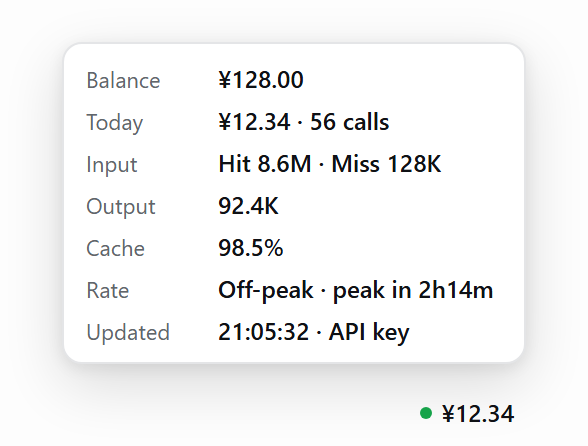
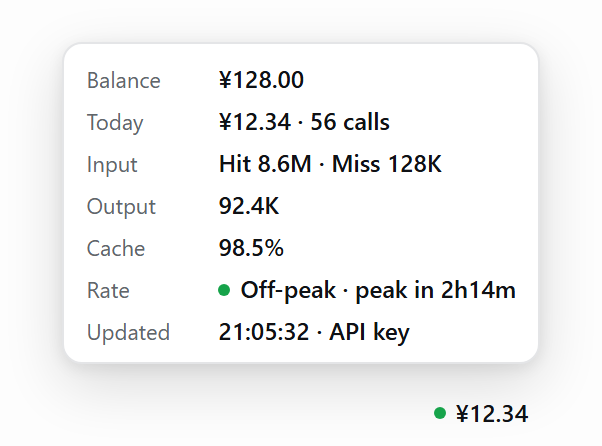
feat: repeat the peak/off-peak dot in the hover card's rate row
The rate row now carries the same 6px dot as the readout, aligned on the CJK ink centre (vertical-align: middle plus a -1px nudge measured against the rendered preview). Previews regenerated; version 0.3.1.

diff --git a/client.js b/client.js
@@ -342,6 +342,21 @@ window.__ModuleLoader__.load({
 				fontVariantNumeric: 'tabular-nums',
 				color: 'var(--dsw-alias-label-primary)',
 			},
+			// Inline marker for the card's rate row. `vertical-align: middle` puts
+			// its centre on the text's x-height centre, which reads better than a
+			// flex-centred box against a baseline-aligned row.
+			cardDot: {
+				display: 'inline-block',
+				width: '6px',
+				height: '6px',
+				marginRight: '5px',
+				borderRadius: '50%',
+				verticalAlign: 'middle',
+				// `vertical-align: middle` uses the x-height, which sits a hair low
+				// against CJK glyphs; nudge the dot back onto their ink centre.
+				position: 'relative',
+				top: '-1px',
+			},
 			cardNote: {
 				fontSize: '11px',
 				lineHeight: '1.4',
@@ -710,12 +725,11 @@ window.__ModuleLoader__.load({
 			const peak = isPeak(now);
 			const countdown = humanDuration(secondsToSwitch(now));
 			// Green while the off-peak discount applies, amber during peak hours.
-			// Decorative only: the readout's aria-label already names the window.
-			const rateDotStyle = Object.assign({}, CSS.rateDot, {
-				background: peak
-					? 'var(--dsw-alias-state-warn-primary, #d97706)'
-					: 'var(--dsw-alias-state-success-primary, #16a34a)',
-			});
+			const rateColor = peak
+				? 'var(--dsw-alias-state-warn-primary, #d97706)'
+				: 'var(--dsw-alias-state-success-primary, #16a34a)';
+			const rateDotStyle = Object.assign({}, CSS.rateDot, { background: rateColor });
+			const cardDotStyle = Object.assign({}, CSS.cardDot, { background: rateColor });
 			const currency = (snapshot && snapshot.currency) || 'CNY';
 			const balance = money(snapshot ? snapshot.balance : null, currency);
 			const today = snapshot && snapshot.today ? snapshot.today : null;
@@ -745,7 +759,9 @@ window.__ModuleLoader__.load({
 					cardRows.push({ label: T.output, value: outputTokens > 0 ? compactTokens(outputTokens) : '—' });
 					cardRows.push({ label: T.cache, value: cacheRateText(today.cacheHitRate, !officialSource) || '—' });
 				}
-				cardRows.push({ label: T.rate, value: T.rateValue(peak, countdown) });
+				// The rate row repeats the pill's dot so the colour and the wording
+				// name the same window instead of asking the reader to remember it.
+				cardRows.push({ label: T.rate, value: T.rateValue(peak, countdown), dot: true });
 				cardRows.push({
 					label: T.updated,
 					value: clockOf(snapshot.balanceAt, LOCALE_TAG) + ' · ' + sourceLabel(snapshot.balanceSource, T),
@@ -853,7 +869,14 @@ window.__ModuleLoader__.load({
 												},
 												row.label,
 											),
-											h('span', { style: CSS.cardValue }, row.value),
+											row.dot
+												? h(
+														'span',
+														{ style: CSS.cardValue },
+														h('span', { style: cardDotStyle, 'aria-hidden': 'true' }),
+														row.value,
+													)
+												: h('span', { style: CSS.cardValue }, row.value),
 										),
 									)
 								: h('span', { style: CSS.cardNote }, T.loading),

diff --git a/tools/preview/preview.html b/tools/preview/preview.html
@@ -41,7 +41,8 @@
   }
   .pill { display: inline-flex; align-items: baseline; gap: 5px; padding: 2px 6px; border-radius: 7px; line-height: 16px; }
   .pill .val { font-size: 12px; font-weight: 500; font-variant-numeric: tabular-nums; color: #0f1115; }
-  .pill .rate { flex: 0 0 auto; align-self: center; width: 6px; height: 6px; margin-top: 1px; border-radius: 50%; background: #16a34a; }
+  .rate { flex: 0 0 auto; align-self: center; width: 6px; height: 6px; margin-top: 1px; border-radius: 50%; background: #16a34a; }
+  .rate.inline { display: inline-block; vertical-align: middle; position: relative; top: -1px; margin: 0 5px 0 0; }
 </style></head>
 <body>
   <div class="wrap">
@@ -51,7 +52,7 @@
       <div class="row"><span class="label">输入</span><span class="value">命中 8.6M · 未命中 128K</span></div>
       <div class="row"><span class="label">输出</span><span class="value">92.4K</span></div>
       <div class="row"><span class="label">缓存</span><span class="value">98.5%</span></div>
-      <div class="row"><span class="label">峰谷</span><span class="value">低谷 · 2h14m 后转峰</span></div>
+      <div class="row"><span class="label">峰谷</span><span class="value"><span class="rate inline"></span>低谷 · 2h14m 后转峰</span></div>
       <div class="row"><span class="label">更新</span><span class="value">21:05:32 · API Key</span></div>
     </div>
     <div class="pill">

diff --git a/tools/preview/preview-en.html b/tools/preview/preview-en.html
@@ -41,7 +41,8 @@
   }
   .pill { display: inline-flex; align-items: baseline; gap: 5px; padding: 2px 6px; border-radius: 7px; line-height: 16px; }
   .pill .val { font-size: 12px; font-weight: 500; font-variant-numeric: tabular-nums; color: #0f1115; }
-  .pill .rate { flex: 0 0 auto; align-self: center; width: 6px; height: 6px; margin-top: 1px; border-radius: 50%; background: #16a34a; }
+  .rate { flex: 0 0 auto; align-self: center; width: 6px; height: 6px; margin-top: 1px; border-radius: 50%; background: #16a34a; }
+  .rate.inline { display: inline-block; vertical-align: middle; position: relative; top: -1px; margin: 0 5px 0 0; }
 </style></head>
 <body>
   <div class="wrap">
@@ -51,7 +52,7 @@
       <div class="row"><span class="label">Input</span><span class="value">Hit 8.6M · Miss 128K</span></div>
       <div class="row"><span class="label">Output</span><span class="value">92.4K</span></div>
       <div class="row"><span class="label">Cache</span><span class="value">98.5%</span></div>
-      <div class="row"><span class="label">Rate</span><span class="value">Off-peak · peak in 2h14m</span></div>
+      <div class="row"><span class="label">Rate</span><span class="value"><span class="rate inline"></span>Off-peak · peak in 2h14m</span></div>
       <div class="row"><span class="label">Updated</span><span class="value">21:05:32 · API key</span></div>
     </div>
     <div class="pill">
